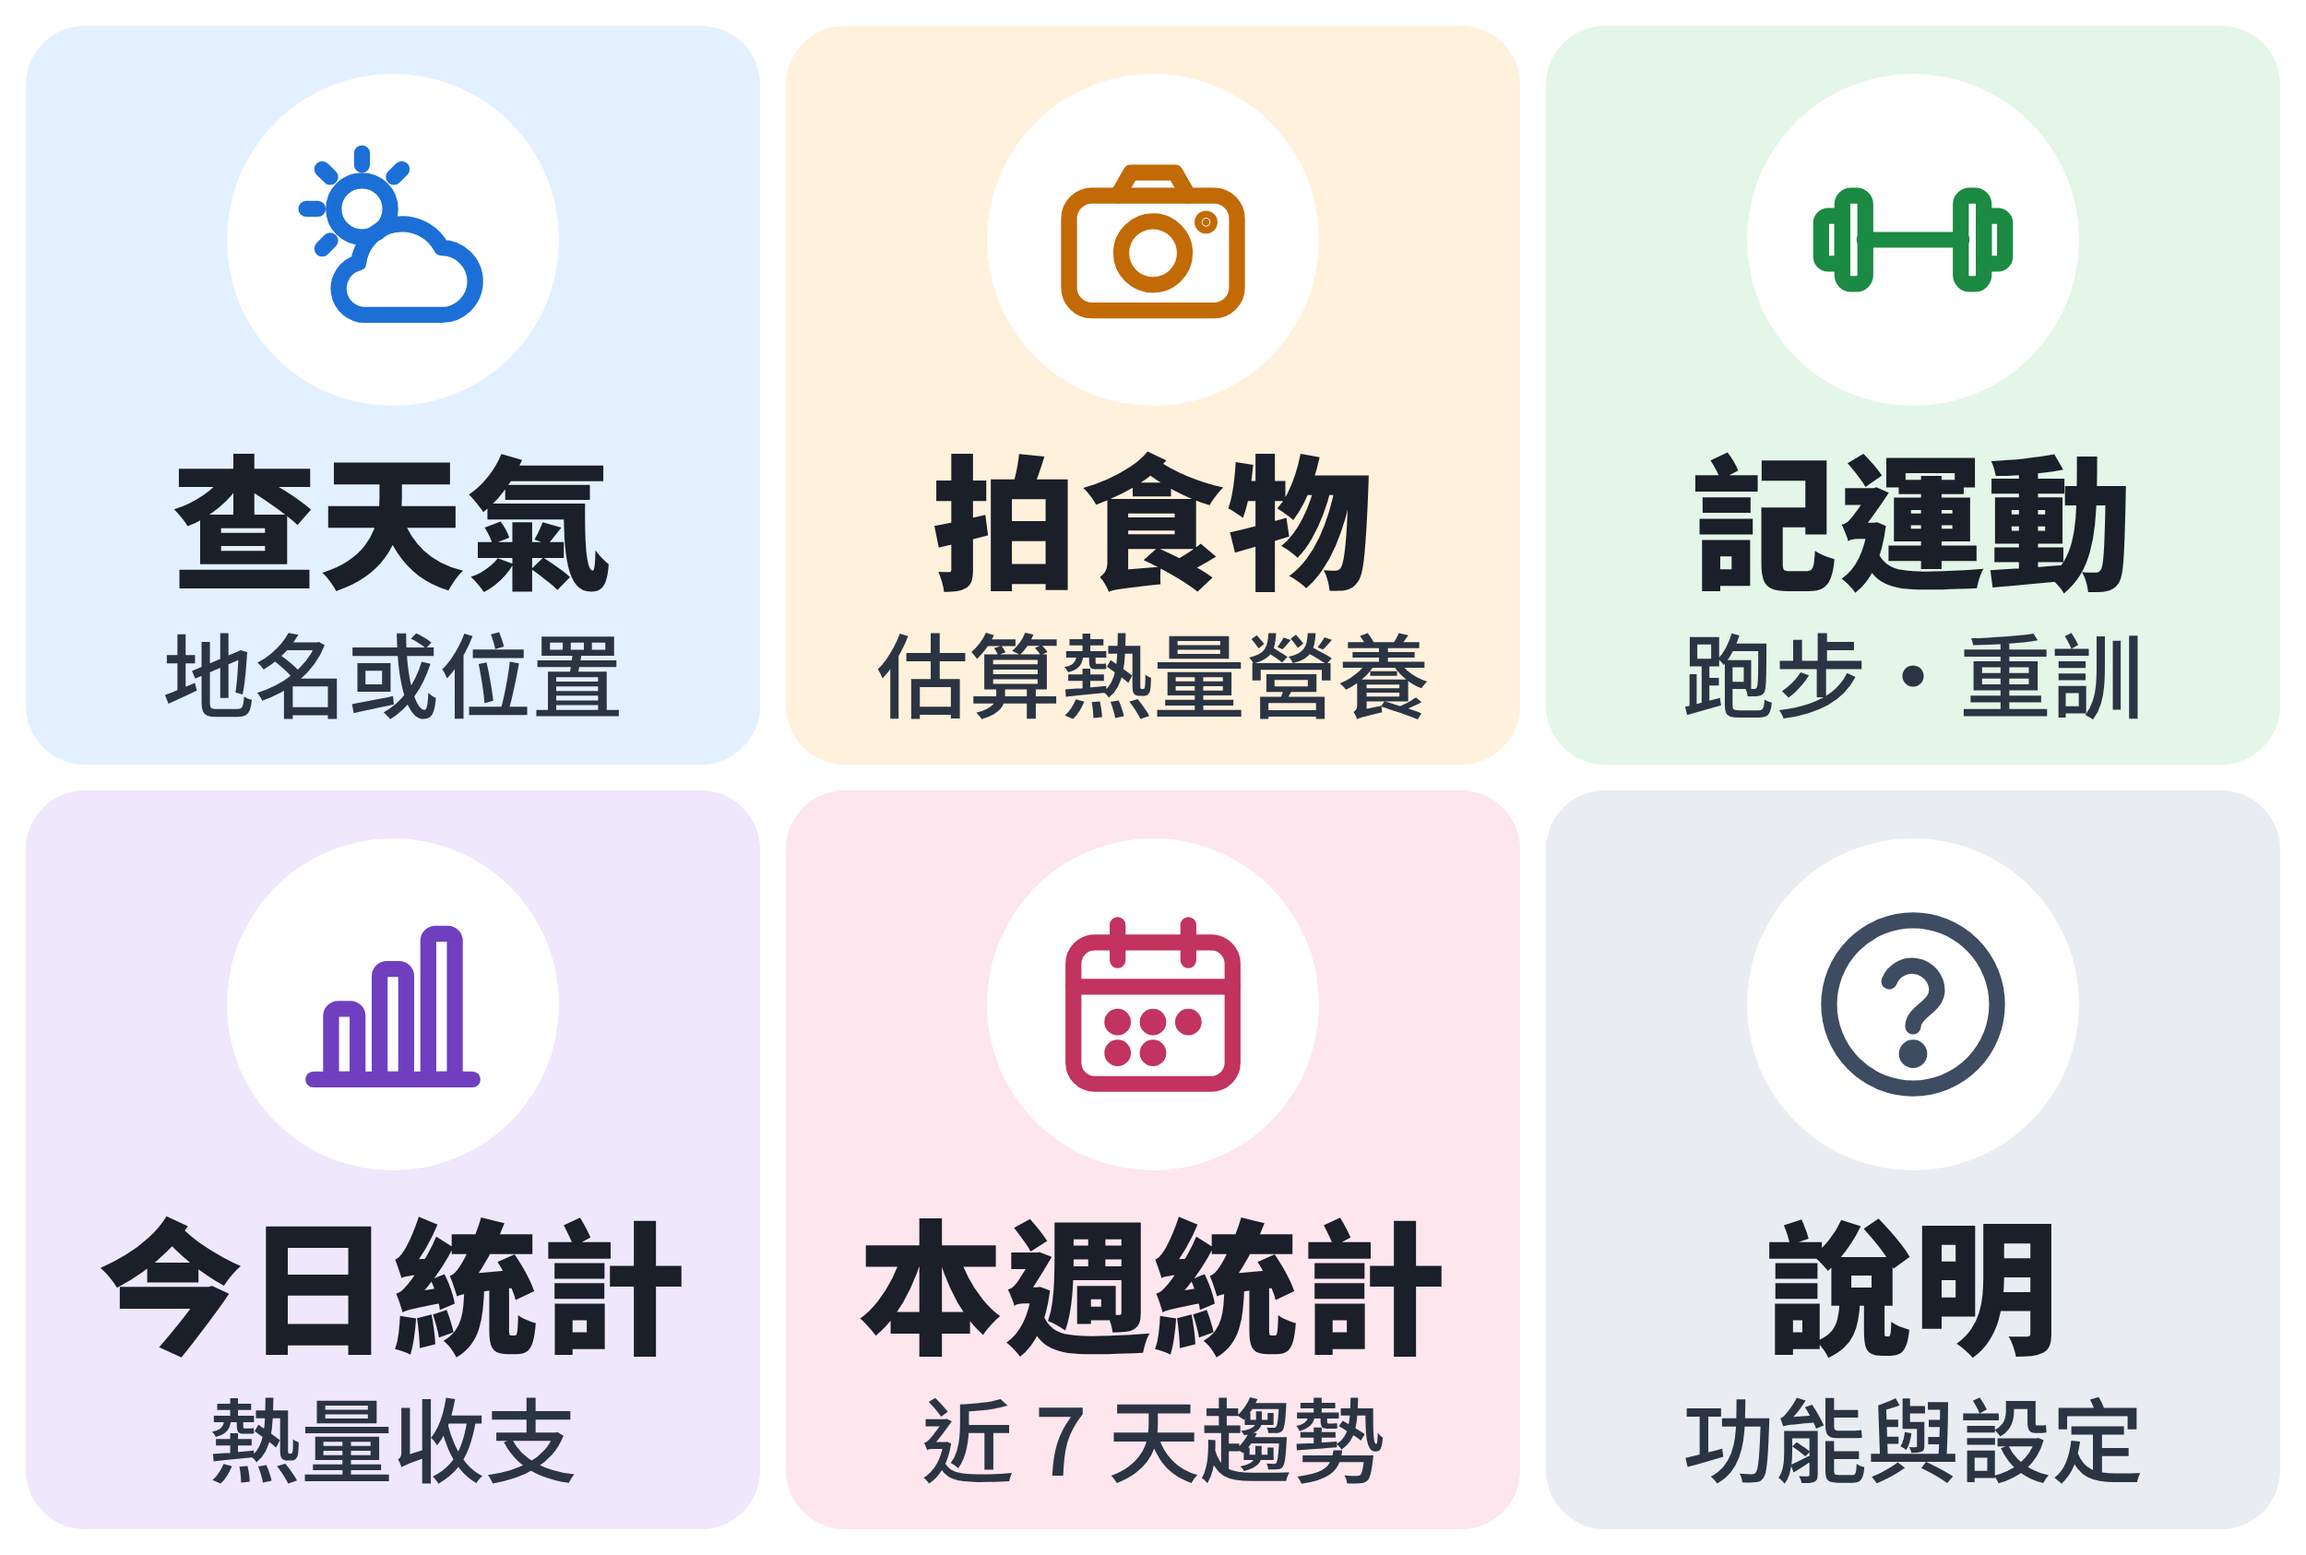
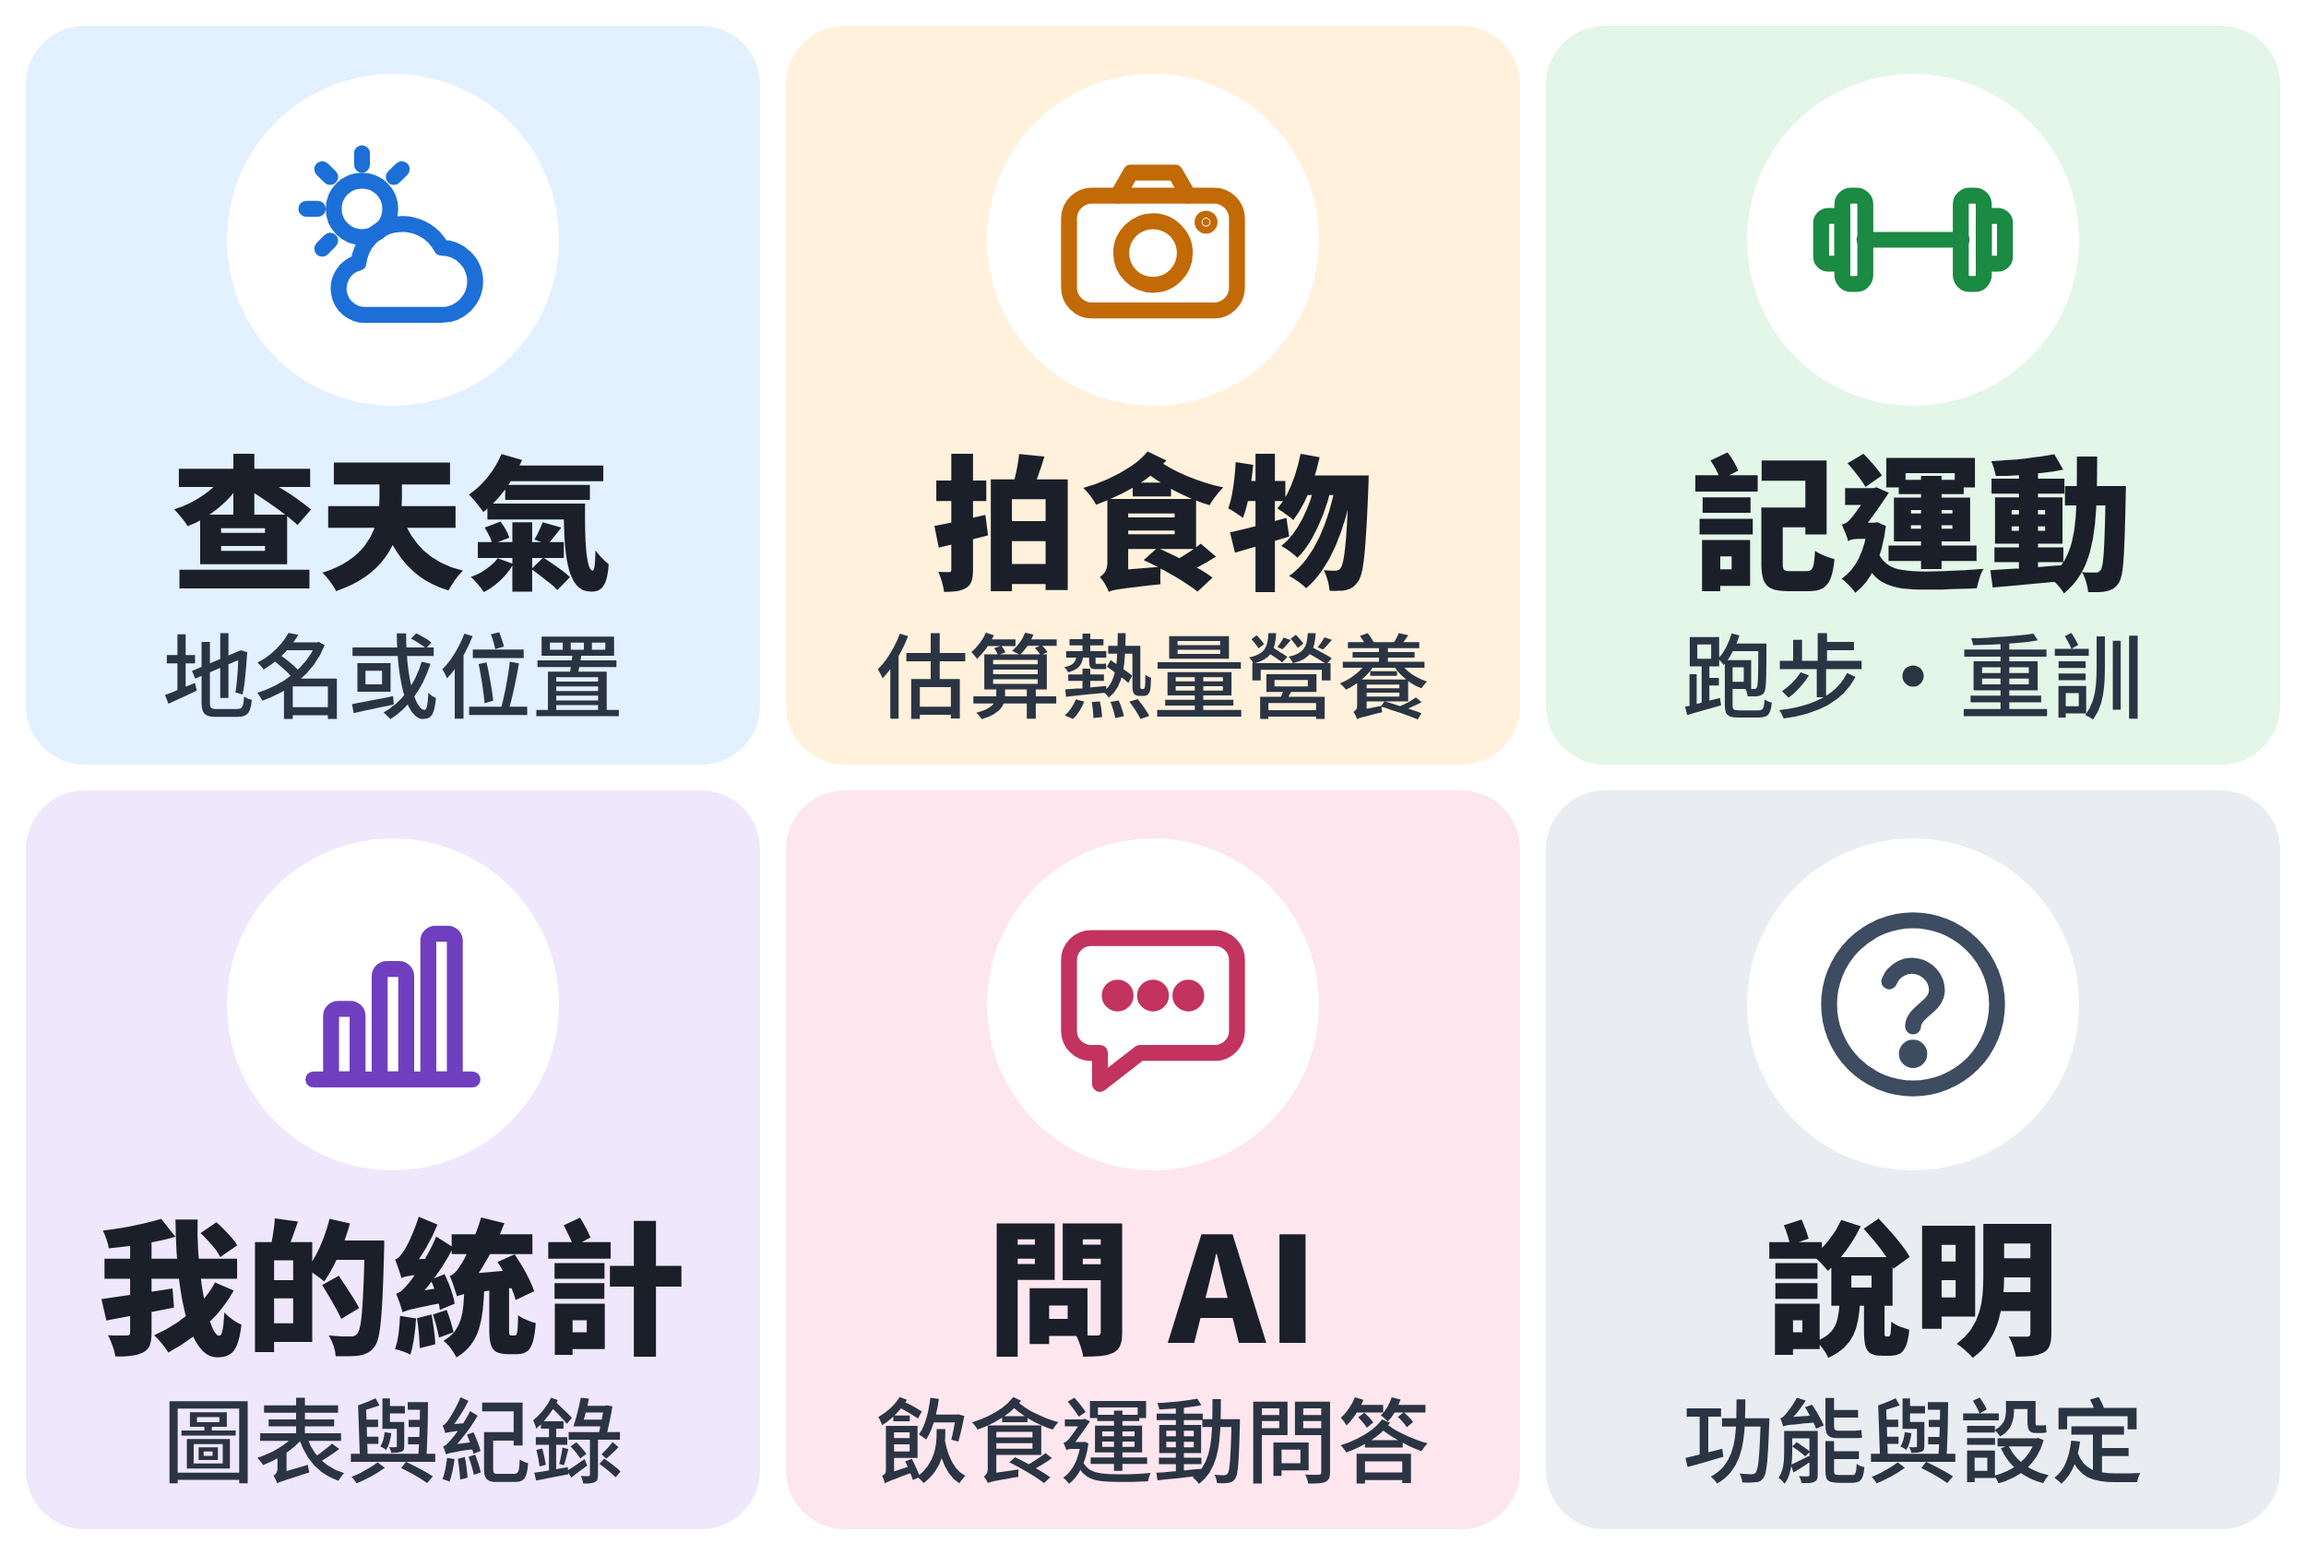
feat(richmenu): merge the stats tiles into 我的統計 and add 問 AI
我的統計 opens the LIFF dashboard when LIFF_ID is set and sends 今日統計
otherwise. The menu is renamed to v2 so the old one is replaced.

Claude-Session: https://claude.ai/code/session_01NxiJdwSoNk6cPWzs4H9wrb

Changed region(s): [[0.3744, 0.7711, 0.624, 0.9561], [0.0312, 0.7711, 0.2808, 0.9561], [0.4368, 0.586, 0.5616, 0.7094]]

diff --git a/internal/richmenu/richmenu.go b/internal/richmenu/richmenu.go
@@ -19,17 +19,35 @@ var image []byte
 // 選單名稱；改版時遞增版本號，舊版會在新版設好後刪除.
 const (
 	namePrefix = "chatbot-go-main"
-	name       = namePrefix + "-v1"
+	name       = namePrefix + "-v2"
 	width      = 2500
 	height     = 1686
 )
 
-// buttons 由左到右、由上到下，點了會替使用者送出對應文字.
-var buttons = []string{"查天氣", "拍食物", "記運動", "今日統計", "本週統計", "說明"}
+// button 選單一格：預設替使用者送出 Text；OpensLIFF 的格子在有 LIFF 網址時改成開啟統計頁.
+type button struct {
+	Label     string
+	Text      string
+	OpensLIFF bool
+}
 
-// Buttons 回傳選單每一格點擊後送出的文字（依位置順序）.
+// buttons 由左到右、由上到下.
+var buttons = []button{
+	{Label: "查天氣", Text: "查天氣"},
+	{Label: "拍食物", Text: "拍食物"},
+	{Label: "記運動", Text: "記運動"},
+	{Label: "我的統計", Text: "今日統計", OpensLIFF: true},
+	{Label: "問 AI", Text: "問 AI"},
+	{Label: "說明", Text: "說明"},
+}
+
+// Buttons 回傳每一格在沒有 LIFF 時送出的文字（依位置順序）.
 func Buttons() []string {
-	return append([]string(nil), buttons...)
+	texts := make([]string, len(buttons))
+	for i, b := range buttons {
+		texts[i] = b.Text
+	}
+	return texts
 }
 
 // API 位址.
@@ -38,15 +56,19 @@ const (
 	DefaultDataBase = "https://api-data.line.me"
 )
 
-// Definition 回傳 LINE Rich Menu 定義.
-func Definition() map[string]any {
+// Definition 回傳 LINE Rich Menu 定義；liffURL 非空時「我的統計」直接開啟統計頁.
+func Definition(liffURL string) map[string]any {
 	const cols, rows = 3, 2
 	cellW, cellH := width/cols, height/rows
 	areas := make([]map[string]any, 0, len(buttons))
-	for i, text := range buttons {
+	for i, b := range buttons {
+		action := map[string]string{"type": "message", "label": b.Label, "text": b.Text}
+		if b.OpensLIFF && liffURL != "" {
+			action = map[string]string{"type": "uri", "label": b.Label, "uri": liffURL}
+		}
 		areas = append(areas, map[string]any{
 			"bounds": map[string]int{"x": (i % cols) * cellW, "y": (i / cols) * cellH, "width": cellW, "height": cellH},
-			"action": map[string]string{"type": "message", "label": text, "text": text},
+			"action": action,
 		})
 	}
 	return map[string]any{
@@ -64,6 +86,8 @@ type Client struct {
 	Token    string
 	APIBase  string
 	DataBase string
+	// LIFFURL 非空時「我的統計」開啟 LIFF 統計頁.
+	LIFFURL string
 }
 
 // Setup 建立新選單、上傳圖片、設為所有人的預設選單，最後刪除舊版本. 回傳新選單 ID.
@@ -71,7 +95,7 @@ func (c *Client) Setup(ctx context.Context) (string, error) {
 	var created struct {
 		RichMenuID string `json:"richMenuId"`
 	}
-	body, err := json.Marshal(Definition())
+	body, err := json.Marshal(Definition(c.LIFFURL))
 	if err != nil {
 		return "", fmt.Errorf("encode rich menu: %w", err)
 	}

diff --git a/internal/richmenu/richmenu_test.go b/internal/richmenu/richmenu_test.go
@@ -11,7 +11,7 @@ import (
 )
 
 func TestDefinitionCoversWholeImage(t *testing.T) {
-	def := Definition()
+	def := Definition("")
 	areas := def["areas"].([]map[string]any)
 	if len(areas) != len(buttons) {
 		t.Fatalf("areas = %d", len(areas))
@@ -50,8 +50,8 @@ func TestSetupCreatesUploadsSetsDefaultAndRemovesOldVersions(t *testing.T) {
 				t.Errorf("image upload: %s %d bytes", r.Header.Get("Content-Type"), len(body))
 			}
 		case r.URL.Path == "/v2/bot/richmenu/list":
-			_, _ = io.WriteString(w, `{"richmenus":[{"richMenuId":"new","name":"chatbot-go-main-v1"},
-				{"richMenuId":"old","name":"chatbot-go-main-v0"},{"richMenuId":"other","name":"campaign"}]}`)
+			_, _ = io.WriteString(w, `{"richmenus":[{"richMenuId":"new","name":"chatbot-go-main-v2"},
+				{"richMenuId":"old","name":"chatbot-go-main-v1"},{"richMenuId":"other","name":"campaign"}]}`)
 		}
 	}))
 	defer srv.Close()
@@ -77,5 +77,21 @@ func TestSetupReportsLINEErrorsRedacted(t *testing.T) {
 	_, err := (&Client{HTTP: srv.Client(), Token: "tok", APIBase: srv.URL, DataBase: srv.URL}).Setup(context.Background())
 	if err == nil || !strings.Contains(err.Error(), "401") || strings.Contains(err.Error(), "abcdef") {
 		t.Errorf("err = %v", err)
+	}
+}
+
+func TestStatsTileOpensLIFFWhenConfigured(t *testing.T) {
+	areas := Definition("https://liff.line.me/123-abc")["areas"].([]map[string]any)
+	stats := areas[3]["action"].(map[string]string)
+	if stats["type"] != "uri" || stats["uri"] != "https://liff.line.me/123-abc" || stats["label"] != "我的統計" {
+		t.Errorf("stats tile = %v", stats)
+	}
+	ask := areas[4]["action"].(map[string]string)
+	if ask["type"] != "message" || ask["text"] != "問 AI" {
+		t.Errorf("ask tile = %v", ask)
+	}
+	fallback := Definition("")["areas"].([]map[string]any)[3]["action"].(map[string]string)
+	if fallback["type"] != "message" || fallback["text"] != "今日統計" {
+		t.Errorf("without LIFF the stats tile should send 今日統計, got %v", fallback)
 	}
 }

diff --git a/cmd/richmenu/main.go b/cmd/richmenu/main.go
@@ -1,7 +1,7 @@
 // Command richmenu 建立 LINE 聊天室的圖片選單並設為所有使用者的預設選單.
 //
-// 用法：LINE_CHANNEL_TOKEN=... go run ./cmd/richmenu
-// 金鑰只從環境變數讀取，不會印出.
+// 用法：LINE_CHANNEL_TOKEN=... [LIFF_ID=...] go run ./cmd/richmenu
+// 設了 LIFF_ID 時「我的統計」直接開啟 LIFF 統計頁. 金鑰只從環境變數讀取，不會印出.
 package main
 
 import (
@@ -25,6 +25,9 @@ func main() {
 		Token:    token,
 		APIBase:  richmenu.DefaultAPIBase,
 		DataBase: richmenu.DefaultDataBase,
+	}
+	if liffID := os.Getenv("LIFF_ID"); liffID != "" {
+		client.LIFFURL = "https://liff.line.me/" + liffID
 	}
 	id, err := client.Setup(ctx)
 	cancel()

diff --git a/internal/webhook/fitness_handler_test.go b/internal/webhook/fitness_handler_test.go
@@ -229,7 +229,7 @@ func TestEveryRichMenuButtonGetsItsFeatureReply(t *testing.T) {
 		"拍食物":  `"type":"camera"`,
 		"記運動":  "做了什麼運動",
 		"今日統計": "今日熱量收支",
-		"本週統計": "近 7 天統計",
+		"問 AI": "AI 問答目前未啟用",
 		"說明":   "我可以幫你",
 	}
 	for _, button := range richmenu.Buttons() {
